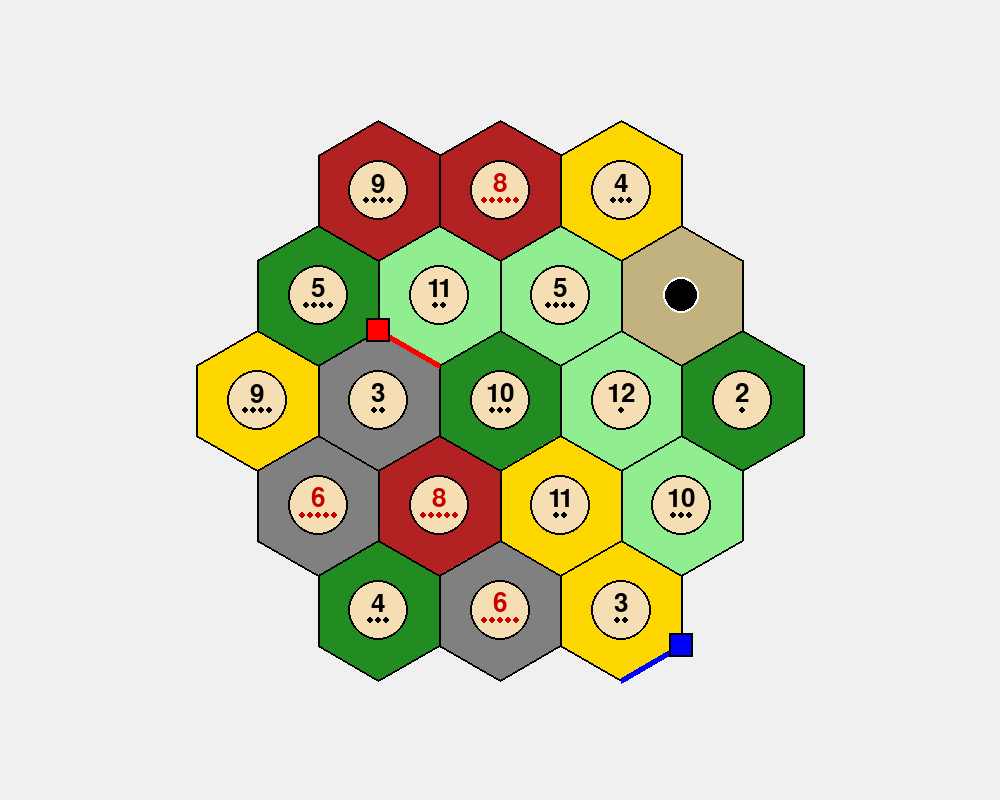
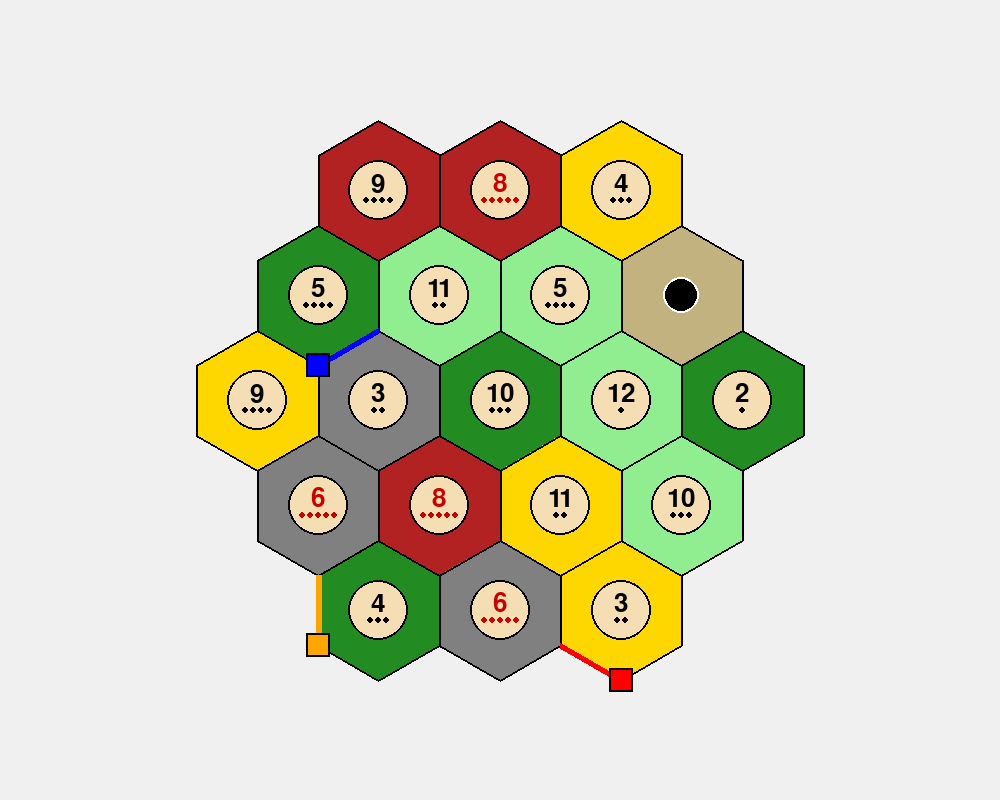
making the runs easier

diff --git a/Task3/visualize/catanatron/catanatron/catanatron/models/board.py b/Task3/visualize/catanatron/catanatron/catanatron/models/board.py
@@ -96,10 +96,10 @@ class Board:
         buildable = self.buildable_node_ids(
             color, initial_build_phase=initial_build_phase
         )
-        if node_id not in buildable:
-            raise ValueError(
-                "Invalid Settlement Placement: not connected and not initial-placement"
-            )
+        # if node_id not in buildable:
+        #     raise ValueError(
+        #         "Invalid Settlement Placement: not connected and not initial-placement"
+        #     )
 
         if node_id in self.buildings:
             raise ValueError("Invalid Settlement Placement: a building exists there")
@@ -187,8 +187,8 @@ class Board:
     def build_road(self, color, edge):
         buildable = self.buildable_edges(color)
         inverted_edge = (edge[1], edge[0])
-        if edge not in buildable and inverted_edge not in buildable:
-            raise ValueError("Invalid Road Placement")
+        # if edge not in buildable and inverted_edge not in buildable:
+        #     raise ValueError("Invalid Road Placement")
 
         self.roads[edge] = color
         self.roads[inverted_edge] = color
